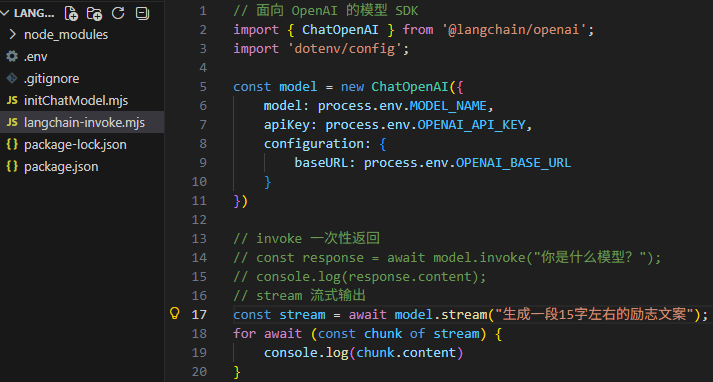
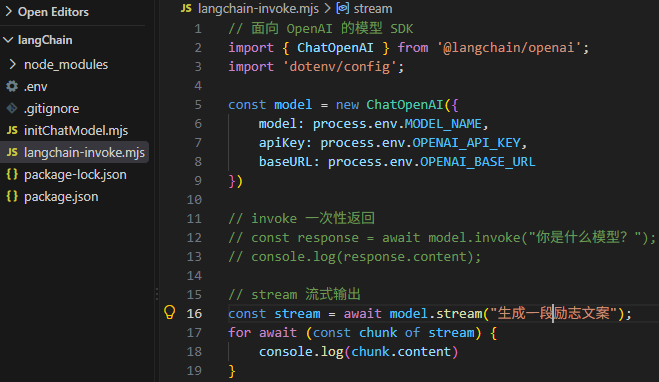
submit

diff --git a/docs/ai/ai.md b/docs/ai/ai.md
@@ -10,14 +10,36 @@
 
 大语言模型(Large Language Model)，通过 Prompt 接收指令，生成文本或结构化内容。
 
-LangChain 是一个基于大型语言模型（LLM）的编程框架，统一调用模型。
+LangChain 是面向 LLM 的应用开发框架，统一封装调用各类大模型，同时支持提示词管理、会话记忆、向量检索、工具调用、Agent 编排，用来快速构建复杂 AI 应用。
 
+调用 LLM 的方式一（直接使用 `openai` SDK）：
+
+![alt text](image-21.png)
+
+调用 LLM 的方式二（LangChain `ChatOpenAI`（Model Class））：
+
+调用 LLM 的方式三（LangChain `initChatModel`（统一工厂函数））：
 
 | Model Class | initChatModel |
 | ---- | ---- |
 | ![alt text](image-15.png) | ![alt text](image-16.png) |
 
+---
+| 对比 | ChatOpenAI（Model Class） | initChatModel（工厂函数） |
+| ---- | ------------------------- | ------------------------- |
+| 所属NPM包 | `@langchain/openai` | `langchain`（主包）；根据`modelProvider`自动加载对应适配器包 |
+| 导入方式 | 需要手动`import {ChatOpenAI} from "@langchain/openai"` | 仅导入`initChatModel`，无需手动导入各类模型类 |
+| 创建方式 | 同步 `new ChatOpenAI()`，**不需要await** | 异步函数，**必须await** |
+| 底层实例 | 直接创建 `ChatOpenAI` | 根据`modelProvider`自动实例化对应模型类<br>• `modelProvider:"openai"` → `new ChatOpenAI()`（依赖包`@langchain/openai`，OpenAI兼容协议）<br>• `modelProvider:"alibaba_tongyi"` → `new ChatAlibabaTongyi()`（依赖包`@langchain/community`，DashScope原生协议） |
+| 对接协议 | DashScope OpenAI兼容模式：<br>`/compatible-mode/v1/chat/completions` | ✅`openai`：兼容模式<br>✅`alibaba_tongyi`：DashScope原生协议`/api/v1/services/aigc/text-generation/generation` |
+| 密钥字段 | `apiKey`，需要配置`baseURL` | `openai`：`apiKey`+`baseUrl`<br>`alibaba_tongyi`：`alibabaApiKey`，**不需要baseUrl** |
+| 切换模型厂商 | 换厂商需要修改import和new代码，改动量大 | 仅修改`modelProvider`、模型名、密钥字段，上层`.invoke()`/`.stream()`代码完全不变 |
+| 参数能力 | 支持ChatOpenAI适配器全部参数 | 通用参数统一；各适配器独有参数受限制 |
+
+
+---
 https://docs.langchain.com/oss/javascript/langchain/models
+
 
 ## Skills
 

diff --git a/docs/ai/接入AI模型.md b/docs/ai/接入AI模型.md
@@ -240,14 +240,14 @@ https://bailian.console.aliyun.com/cn-beijing?spm=5176.support-home.nav-v2-dropd
 
 ### DashScope 原生与 OpenAI 兼容模式对比
 
-| 项目 | DashScope 原生 | OpenAI 兼容模式 |
-| ---- | -------------- | --------------- |
+| 对比 | DashScope 原生 | OpenAI 兼容模式 |
+| ------------ | -------------- | --------------- |
 | BaseURL 前缀 | `https://dashscope.aliyuncs.com/api/v1` | `https://dashscope.aliyuncs.com/compatible-mode/v1` |
 | 完整对话 POST 地址 | `/api/v1/services/aigc/text-generation/generation` | `/compatible-mode/v1/chat/completions` |
-| 请求规范 | 阿里云自定义 | OpenAI 标准协议 |
-| 推荐 SDK | dashscope 官方 SDK | openai SDK、各类 AI 框架 |
+| 请求规范 | 阿里云自定义 JSON 结构 | OpenAI Chat Completion 标准协议 |
+| 推荐 SDK | dashscope 官方 SDK | openai SDK、LangChain、各类 AI 框架 |
 | 能否调用 qwen-plus | 可以 | 可以 |
-| 能否调用百炼内 DeepSeek、GLM 等 | 可以 | 可以 |
+| 能否调用百炼平台内第三方模型(DeepSeek、GLM等) | 可以 | 可以 |
 
 三方模型调用教程：
 
